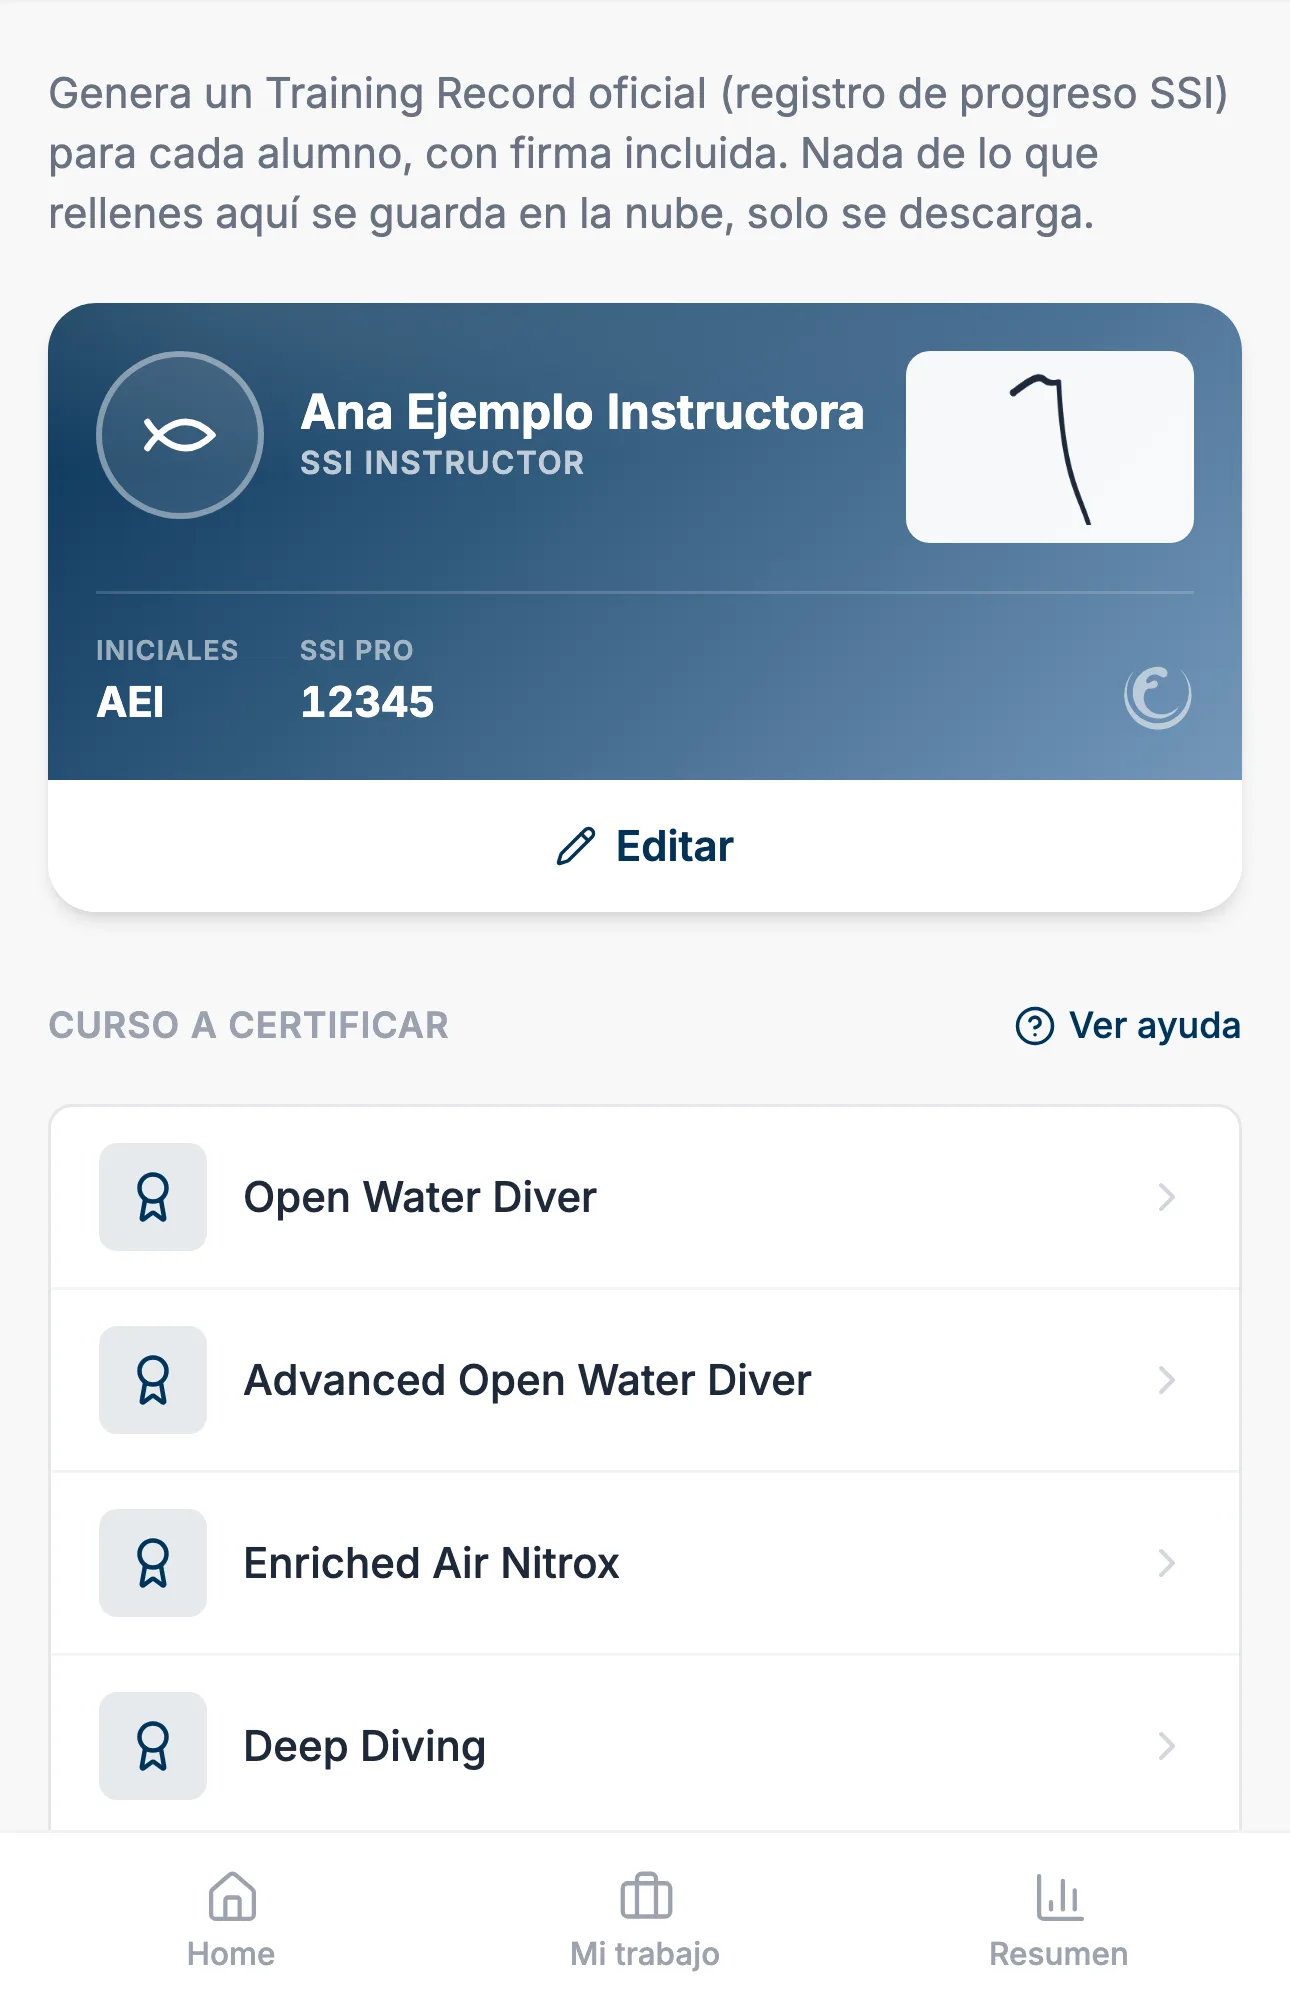
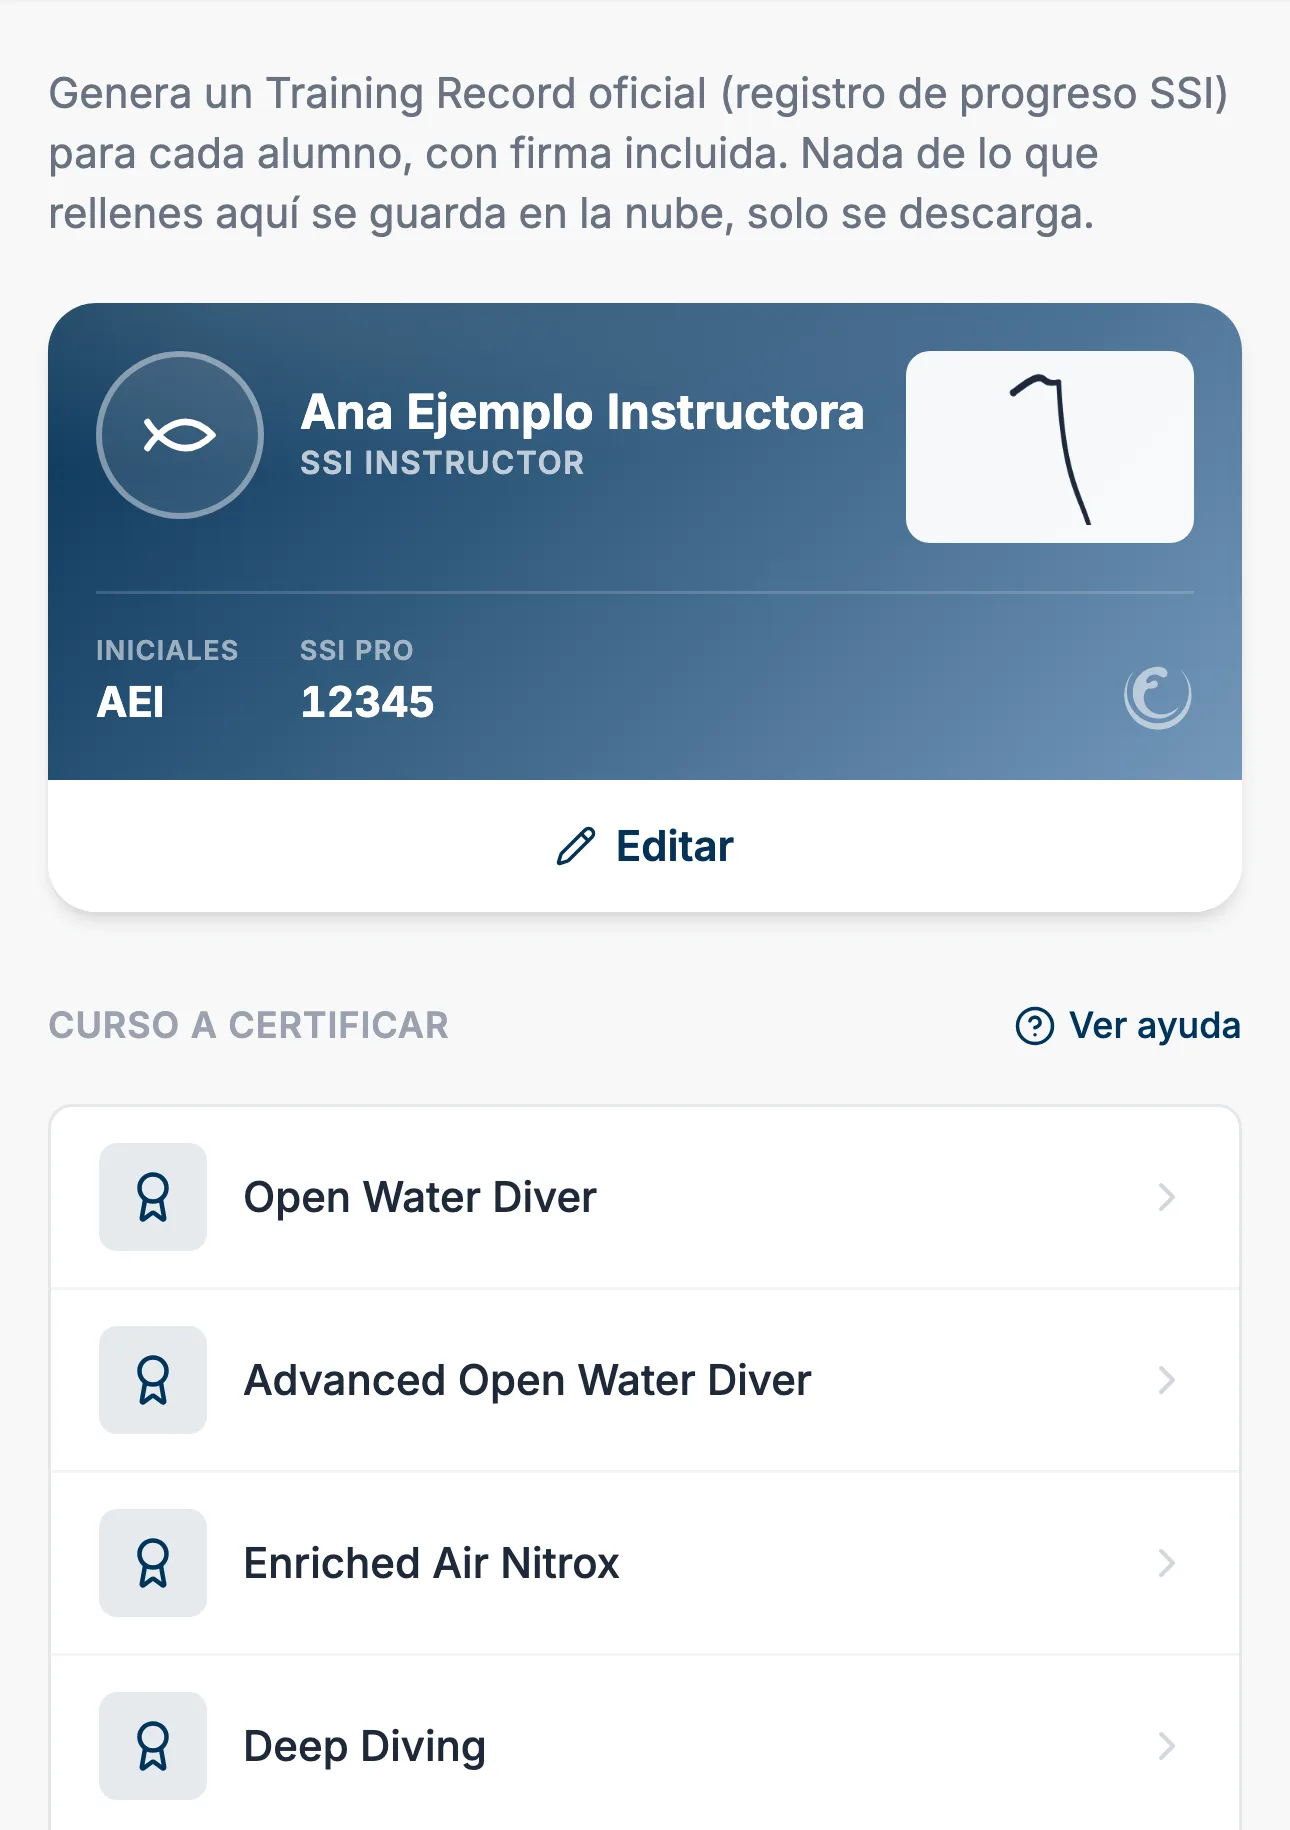
fix: recorta las capturas de la landing al área real de contenido
El hotfix anterior corrigió el estirado (width/height desajustados)
pero usó el viewport completo, incluyendo la barra de navegación
inferior — resultado feo, no el problema real reportado. Recortadas
ahora justo al área de contenido relevante en cada una (Home: hasta el
final de la fila de accesos rápidos, antes del calendario; Training
Records: hasta el final de la lista de cursos, antes de la barra de
navegación), sin cabecera de la app en ninguna de las dos. width/height
del HTML actualizados a las dimensiones reales del nuevo recorte.

Claude-Session: https://claude.ai/code/session_01RzCYqPDBbX5FJsyX5PdWB8

diff --git a/public/meetOceanFlow/index.html b/public/meetOceanFlow/index.html
@@ -612,7 +612,7 @@
     </div>
 
     <div class="readout fade-up">
-      <img class="readout-shot" alt="Ocean Flow — Home" src="/meetOceanFlow/img/shot-home.webp" width="1290" height="2016" loading="lazy">
+      <img class="readout-shot" alt="Ocean Flow — Home" src="/meetOceanFlow/img/shot-home.webp" width="1290" height="1051" loading="lazy">
     </div>
   </section>
 
@@ -697,7 +697,7 @@
       </div>
     </div>
     <div class="readout fade-up">
-      <img class="readout-shot" alt="Ocean Flow — Training Records" src="/meetOceanFlow/img/shot-training-records.webp" width="1290" height="2016" loading="lazy">
+      <img class="readout-shot" alt="Ocean Flow — Training Records" src="/meetOceanFlow/img/shot-training-records.webp" width="1290" height="1830" loading="lazy">
     </div>
   </section>
 
